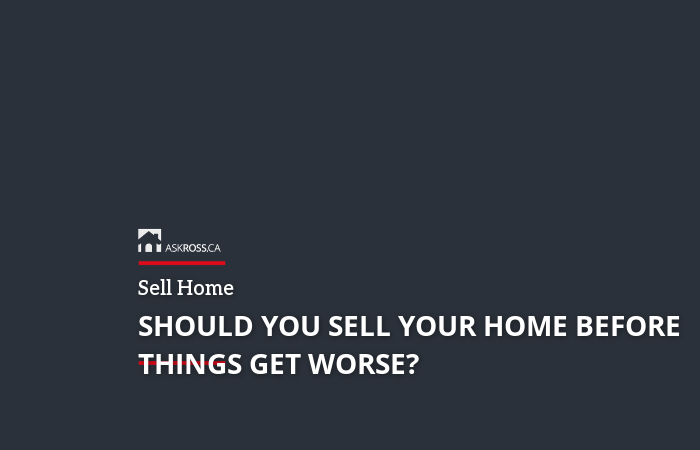
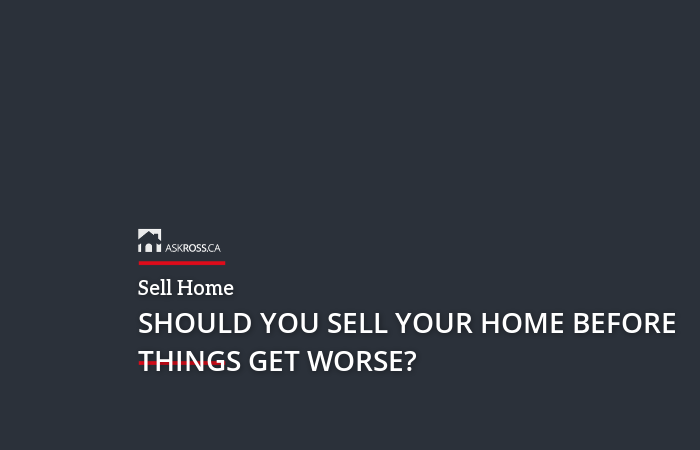
Feature title: Bold→SemiBold, move up 3px (TITLE_Y 306→303, 286→283)

Changed region(s): [[0.18, 0.6844, 0.99, 0.7467], [0.18, 0.7778, 0.6, 0.84]]

diff --git a/src/compositors/compose_feature.py b/src/compositors/compose_feature.py
@@ -46,8 +46,8 @@ THEME_MIN_SIZE   = 12
 
 # Title text — Open Sans ExtraBold, ALL CAPS
 TITLE_X_2LINE   = 138
-TITLE_Y_2LINE   = 306   # for 2-line overlay
-TITLE_Y_3LINE   = 286   # for 3-line overlay (10px higher to accommodate extra line)
+TITLE_Y_2LINE   = 303   # for 2-line overlay
+TITLE_Y_3LINE   = 283   # for 3-line overlay (10px higher to accommodate extra line)
 TITLE_MAX_WIDTH = 560
 TITLE_START_SIZE = 28
 TITLE_MIN_SIZE   = 14
@@ -143,7 +143,7 @@ def compose_feature_image(
         min_size=TITLE_MIN_SIZE,
     )
     title_line_height = title_font.size + 10
-    print(f"    Title: {len(title_lines)} lines at {title_font.size}px Open Sans Bold")
+    print(f"    Title: {len(title_lines)} lines at {title_font.size}px Open Sans SemiBold")
     canvas = draw_text_with_shadow(
         canvas=canvas,
         lines=title_lines,

diff --git a/generate_phase2.py b/generate_phase2.py
@@ -261,7 +261,7 @@ def _composite_phase2(manifest: dict, feature_bg: Image.Image, article_bgs: dict
     gmb_overlay_dir       = str(REF_DIR / "BLOG RESHARE - GMB - POST ONLY- IMAGES TEMPLATE")
     font_archivo          = str(REF_DIR / "(2) Newsletter Image Creation - Use for process creation reference" / "(1) Banner Images" / "fonts" / "Archivo_Black" / "ArchivoBlack-Regular.ttf")
     font_aleo             = str(SCRIPT_DIR / "fonts" / "Aleo" / "static" / "Aleo-SemiBold.ttf")
-    font_opensans         = str(SCRIPT_DIR / "fonts" / "Open_Sans" / "static" / "OpenSans-Bold.ttf")
+    font_opensans         = str(SCRIPT_DIR / "fonts" / "Open_Sans" / "static" / "OpenSans-SemiBold.ttf")
 
     article_title    = manifest["title"]
     title_line_count = manifest.get("title_line_count", 2)

diff --git a/run.py b/run.py
@@ -110,7 +110,7 @@ ASSET_PATHS = {
         SCRIPT_DIR / "fonts" / "Aleo" / "static" / "Aleo-SemiBold.ttf"
     ),
     "font_opensans": (
-        SCRIPT_DIR / "fonts" / "Open_Sans" / "static" / "OpenSans-Bold.ttf"
+        SCRIPT_DIR / "fonts" / "Open_Sans" / "static" / "OpenSans-SemiBold.ttf"
     ),
     # Manifest
     "manifest": SCRIPT_DIR / "out" / "manifest.json",